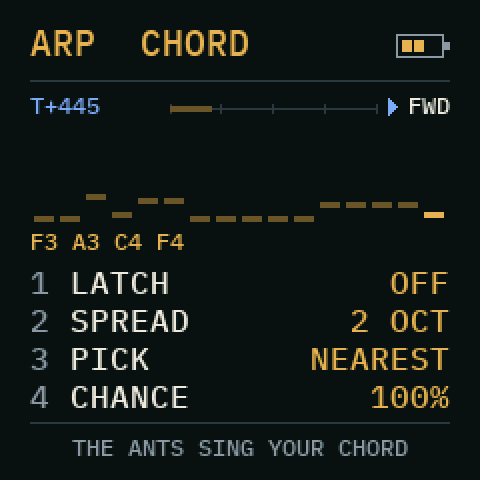
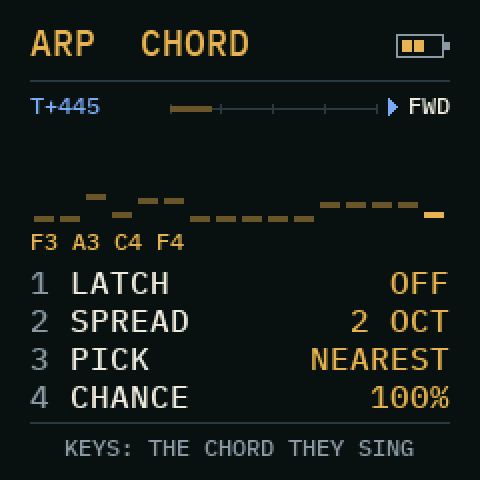
ANTHEM 0.1.5: only the ants sing
The keys never play the engine: on every page they set the root, on the ARP
page they hold the chord the ants sing. MIDI notes in: the chord with the ARP
on, else the root. The root's key is lit.

Claude-Session: https://claude.ai/code/session_01WXTHtg7P89JDZvM1Gy7H1M

Changed region(s): [[0.125, 0.9062, 0.875, 0.9688]]

diff --git a/firmware/src/dinghy.c b/firmware/src/dinghy.c
@@ -248,15 +248,24 @@ static const char *message;
 static uint32_t message_at;
 static void say(const char *text) { message = text; message_at = fm1_ms; }
 
-static void live_note(uint32_t on, uint32_t note, uint32_t vel)
+/* The keys never sound: only the ants sing. On the ARP page they hold the chord the ants sing; everywhere else they
+ * set the root (C4 = C). MIDI notes in do the same: the chord with the ARP on, else the root. */
+static const char *const root_names[] = {"C", "C#", "D", "D#", "E", "F", "F#", "G", "G#", "A", "A#", "B"};
+static void root_from(uint32_t note)
+{
+    static char b[16];
+    scale_now.transpose = (int8_t)clampi((int32_t)note - 60, -31, 43);
+    put_str(put_str(b, "ROOT "), root_names[scale_root_pc()]);
+    say(b);
+}
+
+static void chord_key(uint32_t on, uint32_t note)
 {
     if (on) {
-        if (arp.on && arp.latch && latched) { held_n = 0; latched = 0; }   /* a new chord after a latched one */
+        if (arp.latch && latched) { held_n = 0; latched = 0; }   /* a new chord after a latched one */
         if (held_n < 16u) held[held_n++] = (uint8_t)note;
-        if (!arp.on) cmd_put(1, (uint8_t)(note + 1u), scale_step_pitch(scale_note_step((int32_t)note)), (int32_t)vel * 258);
     } else {
-        cmd_put(0, (uint8_t)(note + 1u), 0, 0);
-        if (arp.on && arp.latch) {              /* LATCH: the chord stays once every key is up */
+        if (arp.latch) {                        /* LATCH: the chord stays once every key is up */
             uint32_t down = 0;
             for (uint32_t k = 0; k < 27u; k++) down += fm1_in.notes >> k & 1u;
             if (!down) { latched = 1; return; }
@@ -265,6 +274,13 @@ static void live_note(uint32_t on, uint32_t note, uint32_t vel)
         for (uint32_t i = 0; i < held_n; i++) if (held[i] != note) held[j++] = held[i];
         held_n = (uint8_t)j;
     }
+}
+
+static void live_note(uint32_t on, uint32_t note, uint32_t vel)
+{
+    (void)vel;
+    if (arp.on) chord_key(on, note);
+    else if (on) root_from(note);
 }
 
 static void live_panic(void)
@@ -1025,7 +1041,7 @@ static void draw_footer(uint8_t page)
         else ui_footer("REC: HATCH   SEL: FREEZE", C_OFF);
         break;
     case P_SEQ: ui_footer("A CELL'S NOTE: ACROSS + UP", C_OFF); break;
-    case P_ARP: ui_footer(arp.on ? "THE ANTS SING YOUR CHORD" : "ARP: PRESS AGAIN TO TURN ON", C_OFF); break;
+    case P_ARP: ui_footer(arp.on ? "KEYS: THE CHORD THEY SING" : "ARP: PRESS AGAIN TO TURN ON", C_OFF); break;
     case P_EDIT: ui_footer("ALGO: ORBIT  HOLD EDIT: RANDOM", C_OFF); break;
     case P_ENV: ui_footer("EVERY FOOTSTEP", C_OFF); break;
     case P_LFO: {
@@ -1225,19 +1241,18 @@ static void app_main(void)
         for (uint32_t k = 0; k < 4; k++) steps[k] = fm1_enc_take(ENC_KNOB1 + k);
         if (steps[0] || steps[1] || steps[2] || steps[3]) edit_page(page, steps);
 
-        /* ---- the keys: they play the ground (or hold the ARP's chord) everywhere but GLO, where they set the root */
+        /* ---- the keys never sound: on the ARP page they hold the chord the ants sing, everywhere else they set the
+         * root */
         uint32_t keys = fm1_in.notes, down = keys & ~prev_keys, up = prev_keys & ~keys;
         prev_keys = keys;
         for (uint32_t k = 0; k < 27u; k++) {
             uint32_t bit = 1u << k;
+            uint8_t note = (uint8_t)(KEY0 + k);
             if (down & bit) {
-                if (page == P_GLO) { scale_now.transpose = (int8_t)((int32_t)k - 7); key_on[k] = 0; }   /* C4 = none */
-                else {
-                    key_on[k] = (uint8_t)(KEY0 + (int32_t)k + 12 * scale_now.octave);
-                    key_note(1, key_on[k], 100);
-                }
+                if (page == P_ARP) { key_on[k] = note; chord_key(1, note); }
+                else { root_from(note); key_on[k] = 0; }
             }
-            if ((up & bit) && key_on[k]) { key_note(0, key_on[k], 0); key_on[k] = 0; }
+            if ((up & bit) && key_on[k]) { chord_key(0, key_on[k]); key_on[k] = 0; }
         }
 
         midi_poll(0);
@@ -1268,13 +1283,14 @@ static void app_main(void)
             if (off_at[i] && (int32_t)(now - off_at[i]) >= 0) { midi_send(0x80u | midi_out_ch(), off_note[i], 0); off_at[i] = 0; }
 
         /* ---- LEDs */
-        uint32_t lit = keys;
-        if (page == P_GLO) {
+        uint32_t lit = page == P_ARP ? keys : 0u;
+        if (page != P_ARP) {                    /* the root, and the notes the ants sing as they sing them */
             int32_t k = scale_now.transpose + 7;
             while (k > 26) k -= 12;
             while (k < 0) k += 12;
             lit = 1u << k;
-        } else {
+        }
+        {
             for (uint32_t k = 0; k < 27u; k++) if ((int32_t)(flash_until[k] - now) > 0) lit |= 1u << k;
         }
         for (uint32_t k = 0; k < 27u; k++) fm1_led_key(KEY_LED(k), lit >> k & 1u);

diff --git a/tools/build.py b/tools/build.py
@@ -63,7 +63,7 @@ SCREEN_NAME = "ANTHEM"               # the update loader's screen (FM-1, ldr_scr
 SCREEN_COLOUR = 0xFAE9              # the ant's red, #FF5C48
 FM1_PRODUCT = "FM-1_582961"         # ANTHEM keeps this identity across releases (as PLUMB, BUOY, BEACHCOMBER, whywhywhy)
 PRODUCT = FM1_PRODUCT
-VERSION = "0.1.4"                     # APP_VER (a release build: --release X.Y)
+VERSION = "0.1.5"                     # APP_VER (a release build: --release X.Y)
 
 
 def toolchain():

diff --git a/docs/OPERATOR-MANUAL.md b/docs/OPERATOR-MANUAL.md
@@ -1,6 +1,6 @@
 # ANTHEM operator manual
 
-ANTHEM 0.1.4 for the M‑VAVE FM‑1. A colony of ants writes the music, and time runs both ways.
+ANTHEM 0.1.5 for the M‑VAVE FM‑1. A colony of ants writes the music, and time runs both ways.
 
 ## The idea in one minute
 
@@ -59,10 +59,10 @@ ANTHEM is silent at power-on: the ants wait until you press **PLAY**.
 | **ALGORITHM** (encoder) | The orbit's shape: CIRCLE, EIGHT, ROSE, DIAMOND, LINE |
 | **PRESETS** (encoder) | The 8 presets and the 8 USER slots |
 | **KNOB 1..4** | The four rows of the page |
-| **Keys** | Play the ground (the sound under the first ant, snapped to the scale). With the ARP on: the chord the ants sing. On GLO: the root |
+| **Keys** | **Never play the engine: only the ants sing.** On every page they set the root (C4 = C; the screen says "ROOT D"). On the ARP page: the chord the ants sing |
 | **MASTER** | The volume |
 
-The keys light up when an ant sings their note. OCT+ or OCT− is lit for the way time runs, SEL while frozen.
+The root's key is lit, and the keys light up when an ant sings their note (on the ARP page: the keys you hold). OCT+ or OCT− is lit for the way time runs, SEL while frozen.
 
 ## HOME: the colony
 
@@ -127,7 +127,7 @@ just opens it.)
 | Knob | | |
 | --- | --- | --- |
 | 1 | **ATTACK** | 0 ms to 20 s |
-| 2 | **DECAY** | How long a footstep rings, up to 10 s (and how long a key rings after you let go). Many long notes at once are kept from distorting: the level comes down smoothly instead |
+| 2 | **DECAY** | How long a footstep rings, up to 10 s. Many long notes at once are kept from distorting: the level comes down smoothly instead |
 | 3 | **ACCENT** | How much louder the later colours are: amber softest, chalk loudest |
 | 4 | **BLOOM** | The orbit opens at each footstep and closes as it decays: brighter at the start |
 
@@ -168,7 +168,8 @@ REVERB, ECHO, TIME (the echo, 1/32 to a dotted 1/4, on the tempo) and CHORUS, in
 | 3 | **SYNC** | AUTO (a MIDI clock that comes in leads) or INTERNAL |
 | 4 | **MIDI CH** | OMNI or 1..16, in and out |
 
-The keys set the root (C4 = C), OCT− / OCT+ move it an octave.
+The keys set the root (C4 = C), here as on every page but ARP; OCT− / OCT+ move it an octave (on this page only:
+elsewhere they run time).
 
 ## Presets
 
@@ -202,9 +203,9 @@ the MIDI channel are saved with SAVE too. A MIDI program change chooses a preset
 
 ## MIDI
 
-- **In**: notes play like the keys (with the ARP on: the chord), the sustain pedal, CC 7 volume, all notes off,
+- **In**: notes set the root (with the ARP on: they hold the chord the ants sing), CC 7 volume, all notes off,
   program change. Clock and START / STOP / CONTINUE: a master leads the tempo, and its START sets the ants walking.
-- **Out**: every note an ant sings, on the MIDI channel, and the keys you play.
+- **Out**: every note an ant sings, on the MIDI channel.
 - **USB audio**: the FM‑1 is a stereo audio input for your computer or phone.
 - **FM‑1 Mirror** and the **backup page** work as in every Dinghy firmware.
 

diff --git a/README.md b/README.md
@@ -41,7 +41,8 @@ wrote). **OCT+** and they go forward again.
 - **LFO, the wind**: SIZE, SHIFT (the orbits slide over the ground), PITCH or LEVEL.
 - **The ARP is a chord the ants sing**: hold keys and every cell's note goes to the nearest note of your chord (or
   they take its notes IN TURN), SPREAD over octaves, with a CHANCE that is the same forwards and backwards.
-- **48 scales**, common and exotic. On the GLO page the keys set the root.
+- **Only the ants sing.** The keys never play the engine: on every page they set the root (on the ARP page, the
+  chord). **48 scales**, common and exotic.
 - **The time line is on every page**: the colony's age (T+123), how much of the ground is painted, which way time runs.
 - **Dinghy inside**: MIDI clock sync, MIDI in and out (every note the ants sing goes out), USB audio, FM‑1 Mirror, the
   backup page.
@@ -50,7 +51,7 @@ wrote). **OCT+** and they go forward again.
 
 [Read the operator manual](docs/OPERATOR-MANUAL.md) · [Credits and licenses](LICENSING.md) · [Changelog](CHANGELOG.md)
 
-**Version 0.1.4** builds as `anthem.fwsc` (a tagged release: `anthem-0.1.4.fwsc`). The host tests pass. It has **not yet
+**Version 0.1.5** builds as `anthem.fwsc` (a tagged release: `anthem-0.1.5.fwsc`). The host tests pass. It has **not yet
 been installed on a physical FM‑1**.
 
 ## Build

diff --git a/CHANGELOG.md b/CHANGELOG.md
@@ -1,5 +1,11 @@
 # Changelog
 
+## 0.1.5 – 2026-11-25
+
+- **Only the ants sing.** The keys no longer play the engine. On every page they set the root (C4 = C, "ROOT D" on
+  the screen); on the ARP page they hold the chord the ants sing. MIDI notes in do the same: the chord with the ARP
+  on, the root otherwise. The root's key is lit, with the ants' notes flashing on the keys.
+
 ## 0.1.4 – 2026-11-25
 
 - **A random sound: hold EDIT for 300 ms on the EDIT page.** The orbit, SIZE, GROUND, SMOOTH, DRIFT, the ENV and the LFO
